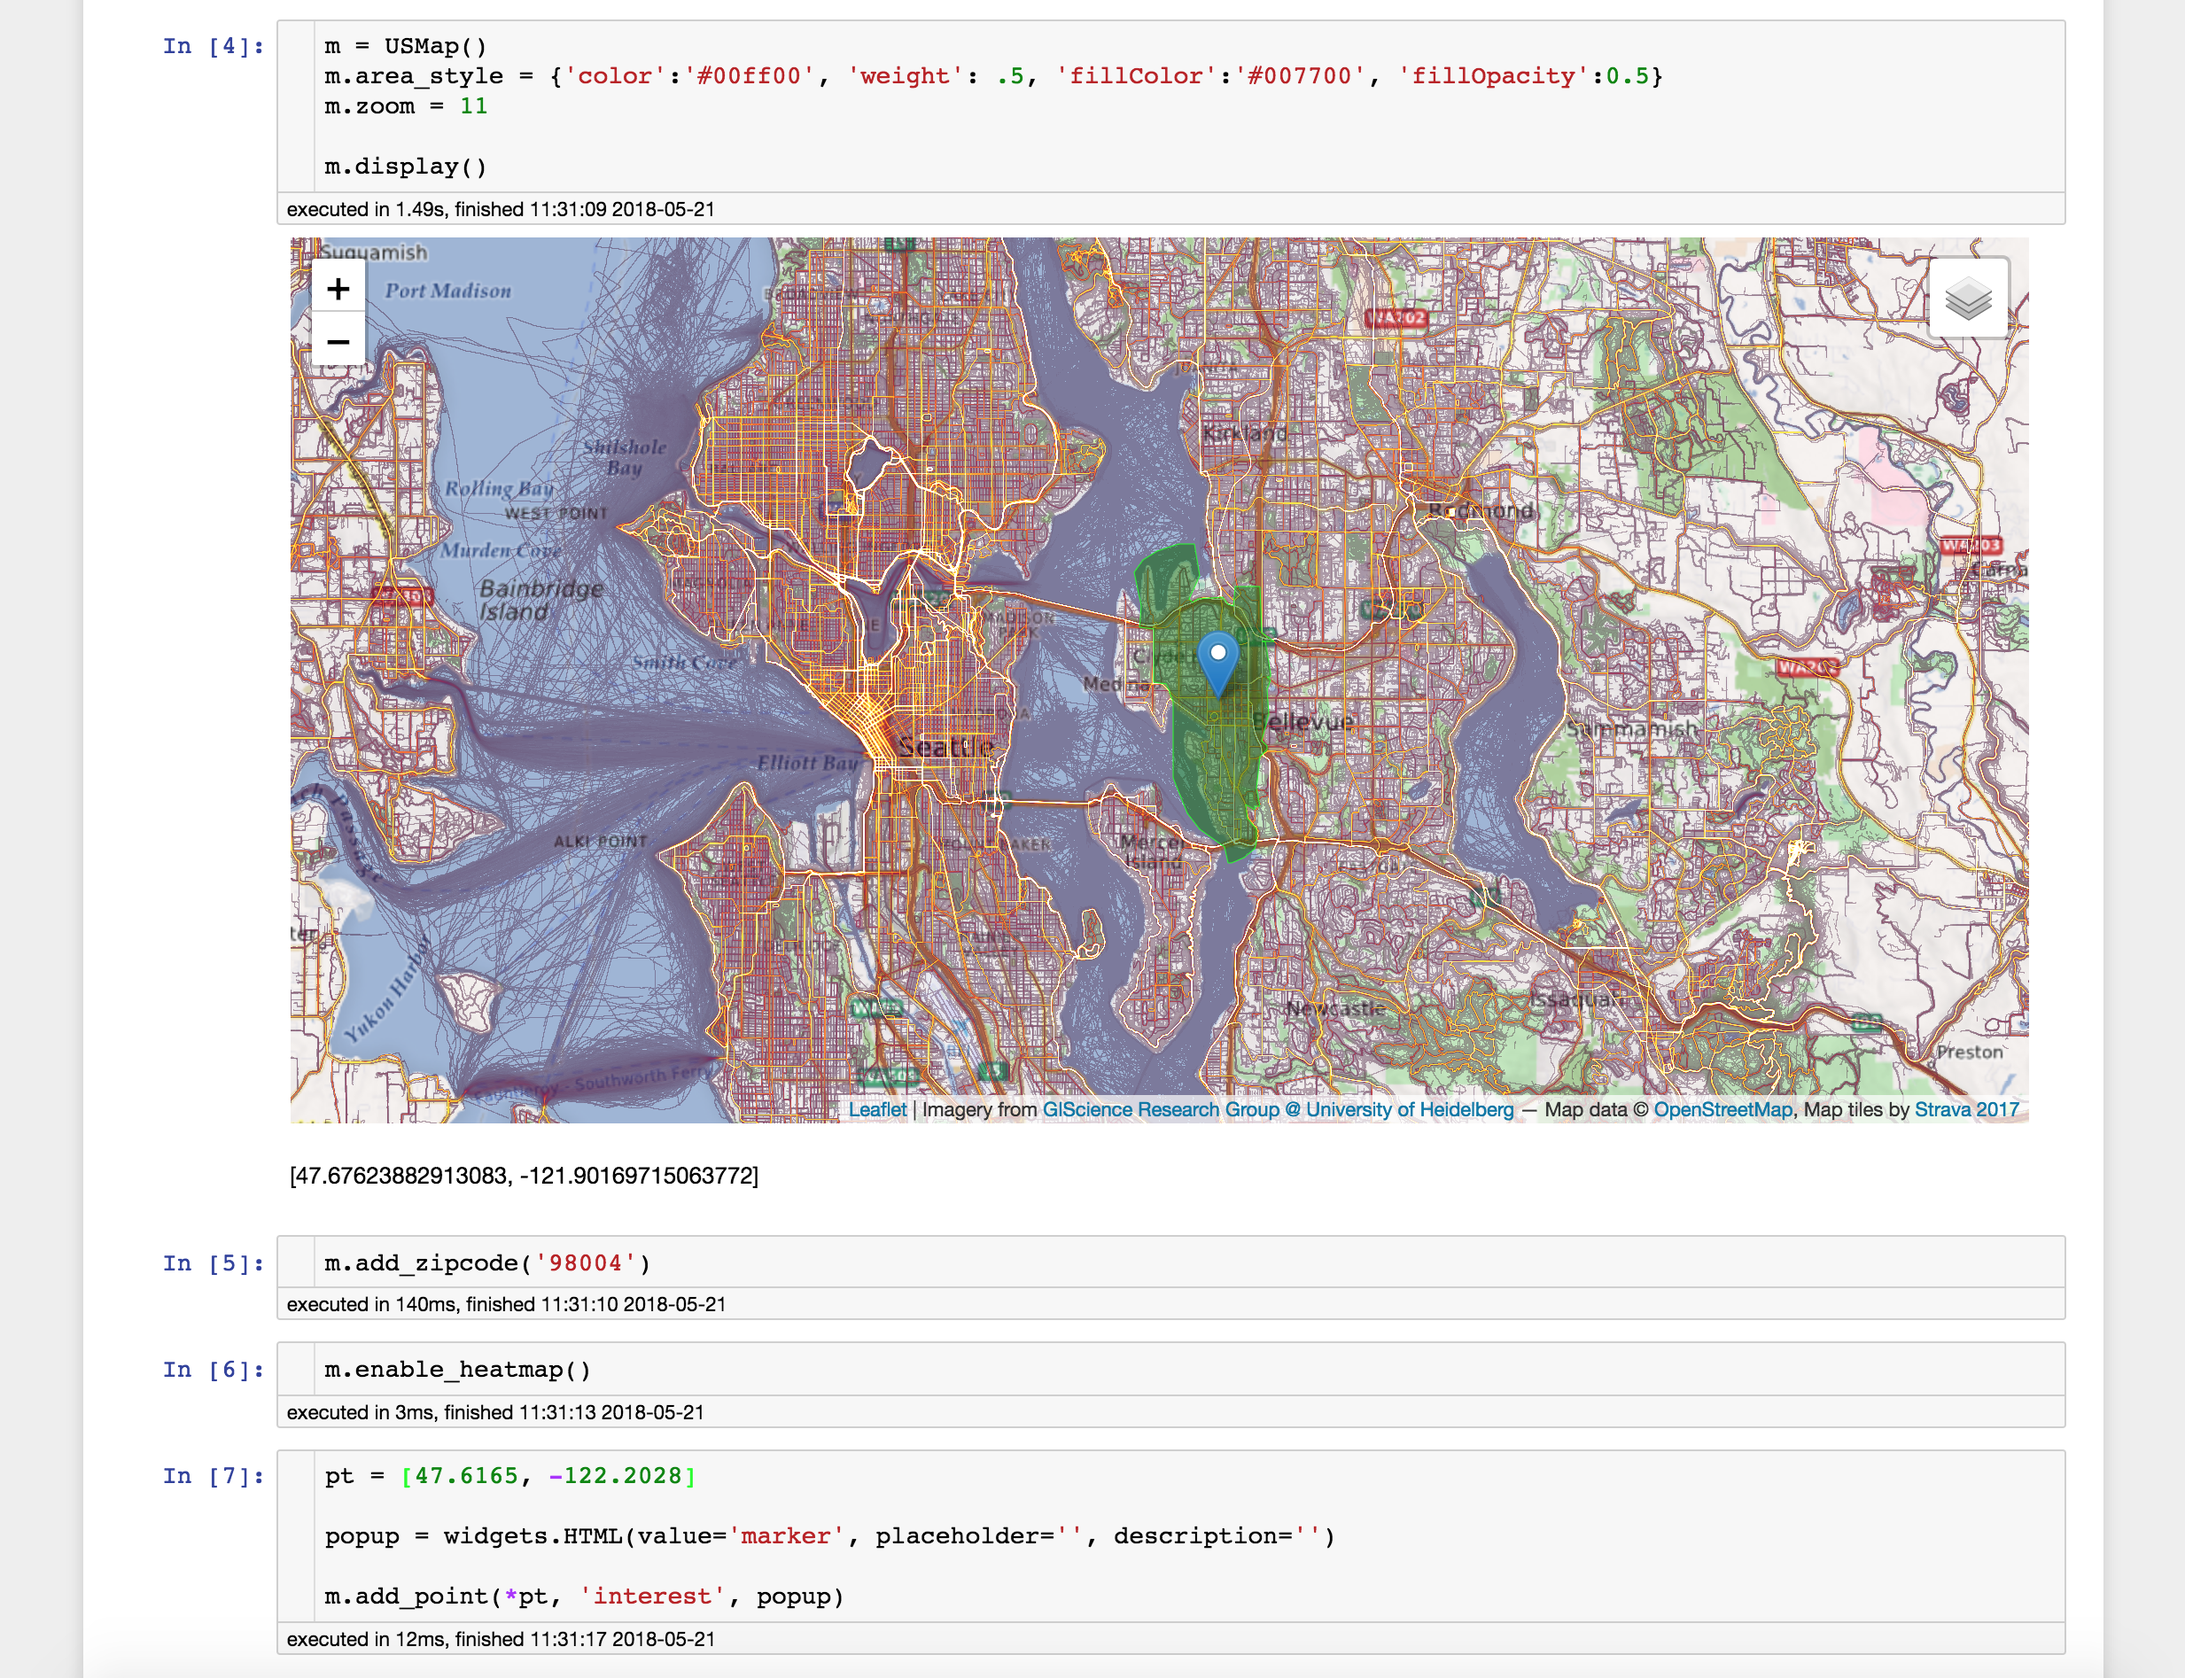
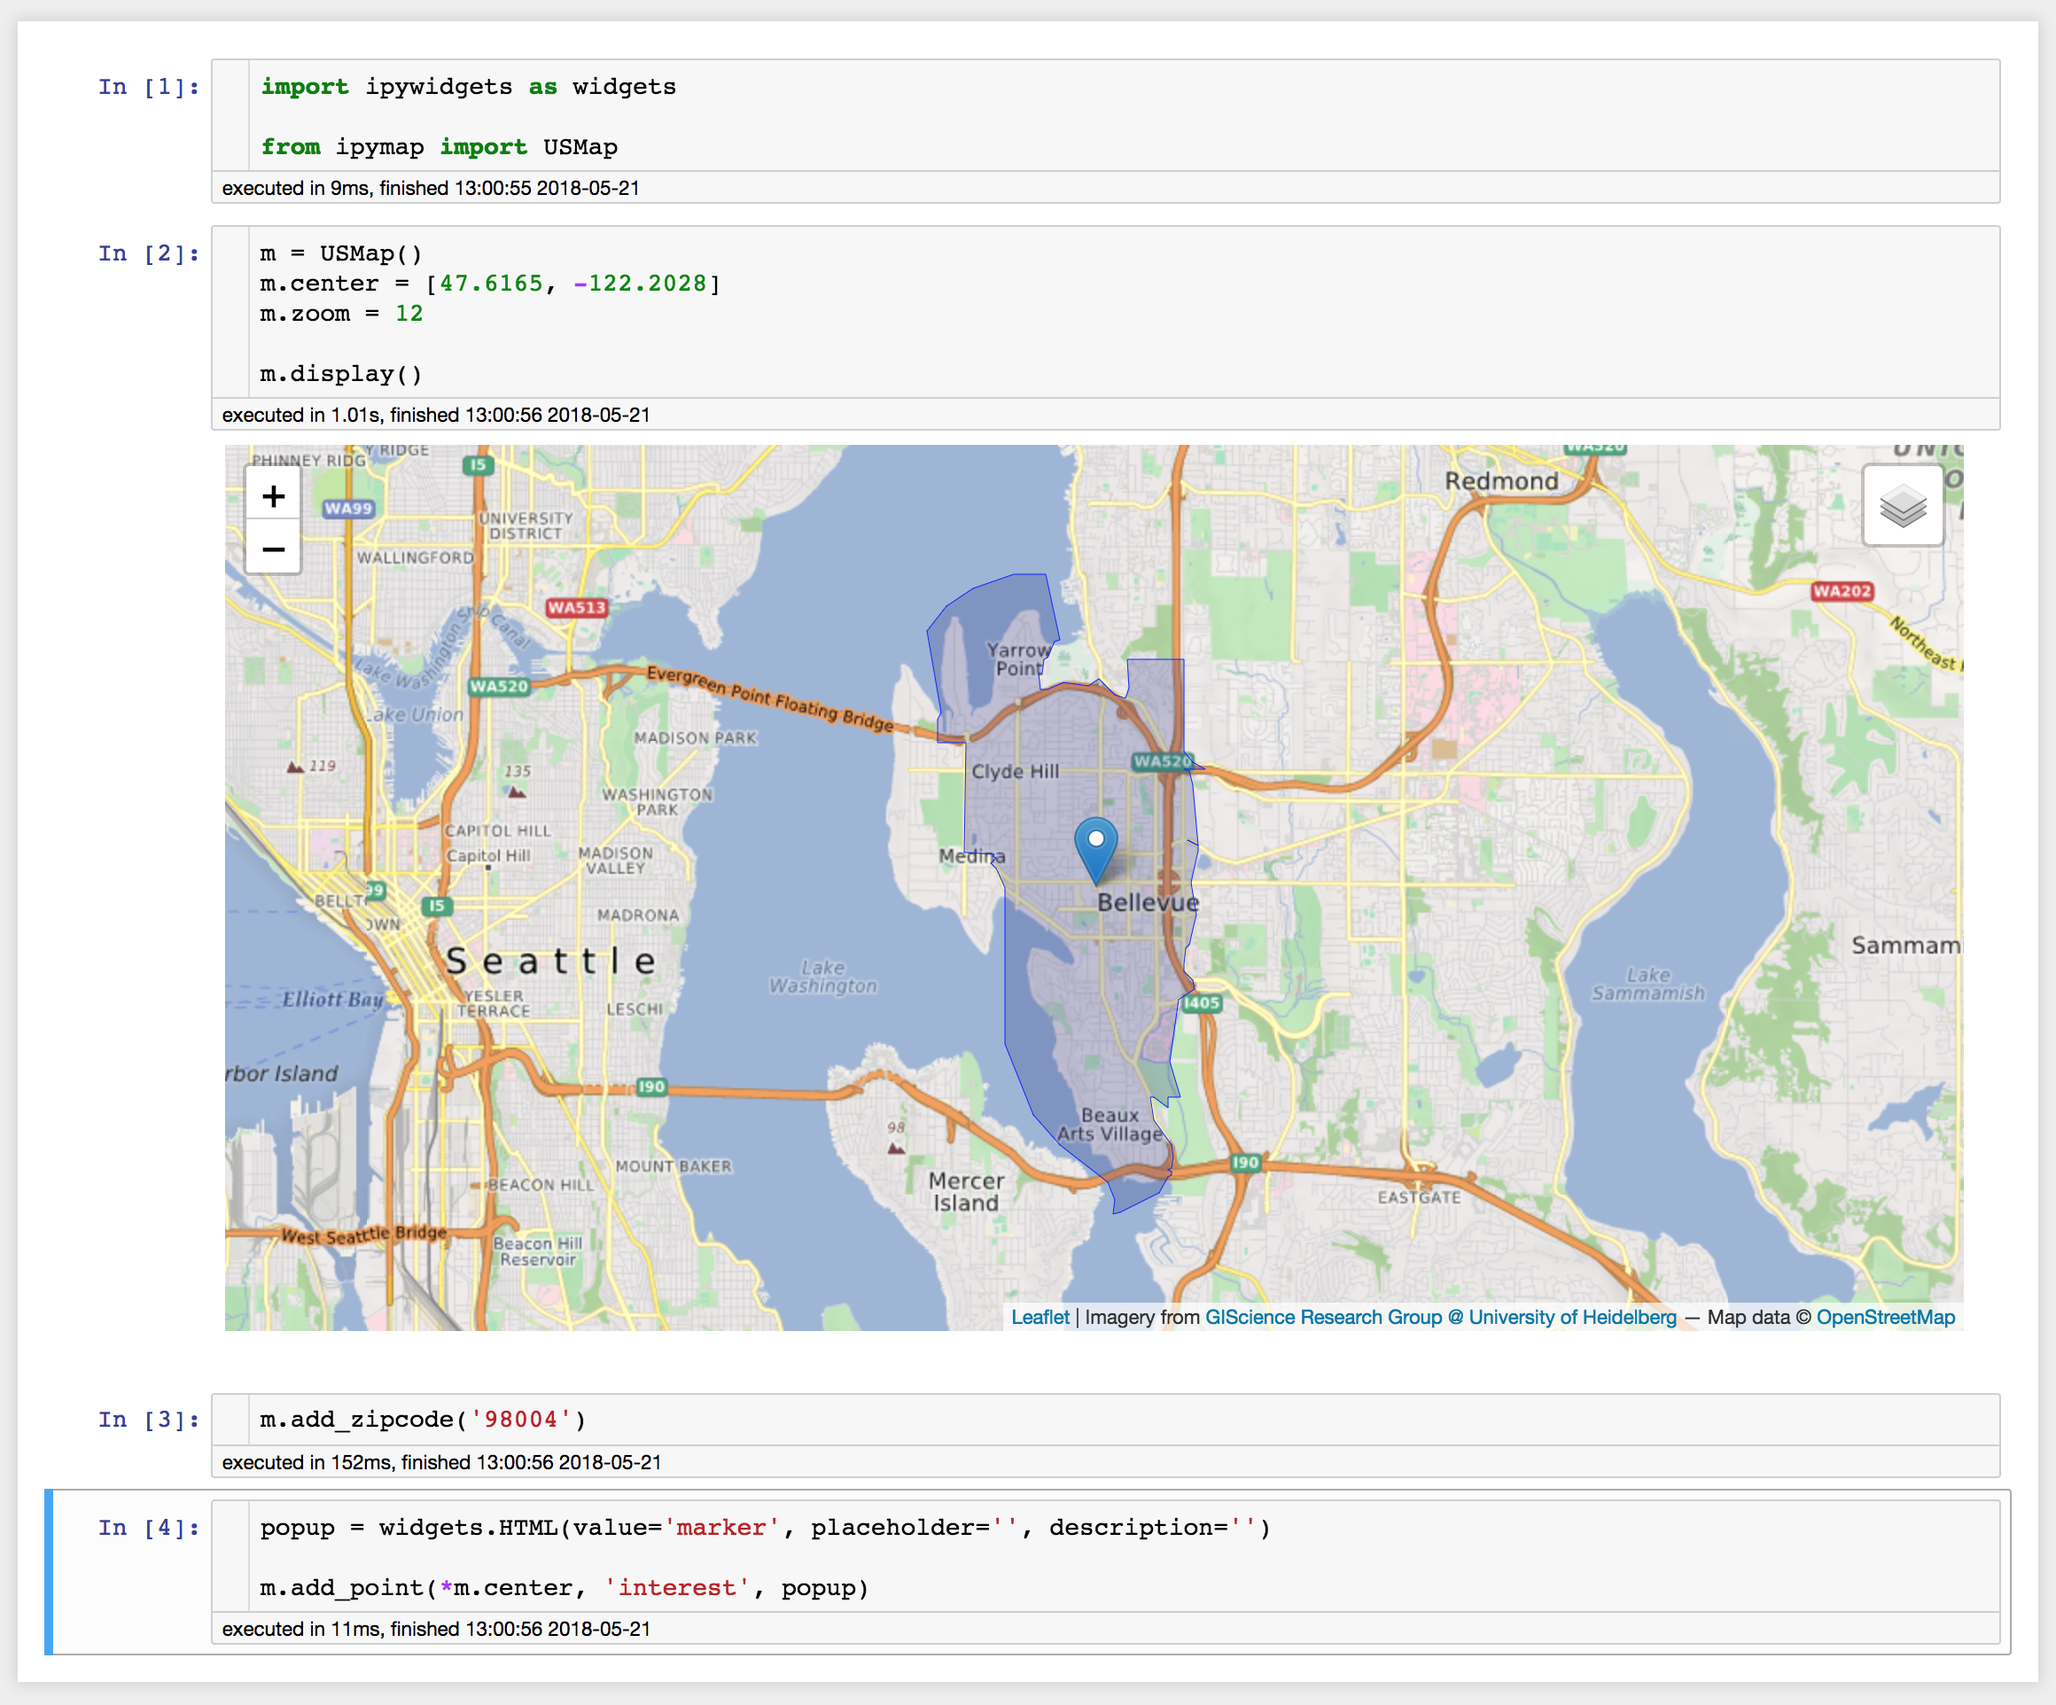
USZIPCodeRepository and USMap

diff --git a/ipymap/map.py b/ipymap/map.py
@@ -1,0 +1,183 @@
+from string import Template
+
+import urllib.request
+import json
+import csv
+
+import ipyleaflet as leaflet
+import ipywidgets as widgets
+
+
+class USZIPCodeRepository:
+    CACHE = {}
+
+    def __init__(self, data_url_prefix = 'https://raw.githubusercontent.com/yyu/GeoJSON-US/master'):
+        self.data_url_prefix = data_url_prefix
+        self.geojson_url_prefix = f'{data_url_prefix}/perZIPgeojson'
+
+        self.refresh_zipcode_latlons(f'{data_url_prefix}/ZIPCodesGazetteer.tsv')
+        self.refresh_available_zipcodes(f'{data_url_prefix}/perZIPgeojson/all_zipcodes.txt')
+
+
+    def refresh_zipcode_latlons(self, url):
+        lines = [ line.decode('UTF8').strip() for line in urllib.request.urlopen(url).readlines() ]
+        tsv = csv.DictReader(lines, delimiter='\t')
+        self.gazetteer = dict((d['GEOID'], {'lat': float(d['INTPTLAT']), 'lon': float(d['INTPTLONG'])}) for d in tsv)
+
+
+    def refresh_available_zipcodes(self, url):
+        lines = [ zipcode.decode('UTF8').strip() for zipcode in urllib.request.urlopen(url).readlines() ]
+        self.zipcode_list = lines[1:] # ignore the first line
+        self.zipcode_set = set(self.zipcode_list)
+
+
+    def make_url(self, zipcode):
+        return f'{self.data_url_prefix}/perZIPgeojson/{zipcode[0]}/{zipcode[1]}/{zipcode[2]}/{zipcode}.json'
+
+
+    def fetch_zipcode(self, zipcode):
+        '''returns a (dict, err) tuple where err could be a string for error message or None'''
+
+        url = self.make_url(zipcode)
+
+        if url in USZIPCodeRepository.CACHE:
+            return (USZIPCodeRepository.CACHE[url], None)
+
+        try:
+            s = urllib.request.urlopen(url).read()
+        except urllib.error.URLError as e:
+            return (None, 'failed to get ' + url, ':', e.reason)
+
+        j = json.loads(s)
+
+        USZIPCodeRepository.CACHE[url] = j
+
+        return (j, None)
+
+
+    def fetch_zipcodes(self, *zipcodes):
+        d = {"type": "FeatureCollection", "features": []}
+
+        available_zipcodes = set(zipcodes) & self.zipcode_set
+
+        for z in available_zipcodes:
+            j, err = self.fetch_zipcode(z)
+
+            if j is not None:
+                d['features'].append(j)
+
+        return d
+
+
+class USMap:
+    def __init__(self):
+        self.us = USZIPCodeRepository()
+
+        self.center = [47.621795, -122.334958]
+        self.zoom = 8
+        self.height = '500px'
+        self.progress_bar_width = '500px'
+        self.area_style = {'color':'#0000ff', 'weight': .5, 'fillColor':'#000077', 'fillOpacity':0.2}
+
+        self.progress_bar = widgets.IntProgress(bar_style='info', layout=widgets.Layout(width=self.progress_bar_width))
+        self.label = widgets.Label()
+        self.progress_label = widgets.Label()
+        self.info_box = widgets.HBox([self.progress_label, self.progress_bar])
+
+        self.basemap = leaflet.basemaps.OpenMapSurfer.Roads
+        self.basemap['name'] = 'basemap'
+        self.heatmap_data = leaflet.basemaps.Strava.All
+        self.heatmap_data['name'] = 'heatmap'
+        self.heatmap = leaflet.basemap_to_tiles(self.heatmap_data)
+        self.layers_control = leaflet.LayersControl()
+        self.map_layout = widgets.Layout(height=self.height)
+
+        self.map = None
+
+
+    def enable_heatmap(self):
+        self.map.add_layer(self.heatmap)
+
+
+    def disable_heatmap(self):
+        self.map.remove_layer(self.heatmap)
+
+
+    def handle_interaction(self, **kwargs):
+        '''mouse interaction handling'''
+        if kwargs.get('type') == 'mousemove':
+            self.label.value = str(kwargs.get('coordinates'))
+
+    def fetch_zipcode(self, zipcode):
+        d, err = self.us.fetch_zipcode(zipcode)
+        if err is not None:
+            print(err)
+        return d
+
+
+    def add_point(self, lat, lng, name='', popup=None):
+        feature = {"type": "Feature", "properties": {}, "geometry": {"type": "Point", "coordinates": [lng, lat]}}
+        self.add_geojson(feature, name, popup)
+
+
+    def add_geojson(self, geojson, name='', popup=None):
+        g = leaflet.GeoJSON(data=geojson, hover_style={'fillColor': '#00aaff'}, name=name)
+
+        if popup is not None:
+            g.popup = popup
+
+        self.map += g
+
+
+    def add_geojsons(self, geojsons, name=''):
+        d = {"type": "FeatureCollection", "features": list(geojsons)}
+
+        self.add_geojson(d, name)
+
+
+    def add_zipcode(self, zipcode):
+        d = self.fetch_zipcode(zipcode)
+        if d is None:
+            print('failed to add ' + zipcode + '.')
+            return
+
+        d['properties']['style'] = self.area_style
+
+        text_template = Template('''<div>ZIP Code
+                                        <ul class='list-group'>
+                                            <li class='list-group-item'>$zipcode</li>
+                                        </ul>
+                                    </div>''')
+        popup_text = text_template.substitute(zipcode=zipcode)
+        popup = widgets.HTML(value=popup_text, placeholder='', description='')
+
+        self.add_geojson(d, name=zipcode, popup=popup)
+
+
+    def add_zipcodes(self, zipcodes):
+        display(self.info_box)
+
+        zipcodes = set(zipcodes)
+        available_zipcodes = list(zipcodes & self.us.zipcode_set)
+        available_zipcodes.sort()
+
+        self.progress_bar.value = self.progress_bar.min
+        self.progress_bar.max = len(available_zipcodes)
+
+        for z in available_zipcodes:
+            self.progress_label.value = z
+            self.add_zipcode(z)
+            self.progress_bar.value += 1
+        self.progress_label.value = '%d/%d loaded' % (len(available_zipcodes), len(zipcodes))
+
+        return available_zipcodes
+
+
+    def display(self):
+        if self.map is None:
+            self.map = leaflet.Map(center=self.center, zoom=self.zoom, basemap=self.basemap, layout=self.map_layout)
+            self.map.on_interaction(self.handle_interaction)
+            self.map.add_control(self.layers_control)
+
+        display(self.map)
+        display(self.label)

diff --git a/setup.py b/setup.py
@@ -6,13 +6,23 @@ with open("README.md", "r") as fh:
 setuptools.setup(
     name="ipymap",
     version="0.0.1",
+
+    install_requires=[
+        'ipywidgets>=7.1.1',
+        'ipyleaflet>=0.8.1',
+    ],
+
     author="Yuan \"Forrest\" Yu",
     author_email="yy@yuyuan.org",
+
     description="mapping tool in jupyter",
     long_description=long_description,
     long_description_content_type="text/markdown",
+
     url="https://github.com/yyu/ipymap",
+
     packages=setuptools.find_packages(),
+
     classifiers=(
         "Programming Language :: Python :: 3",
         "License :: OSI Approved :: MIT License",

diff --git a/ipymap/__init__.py b/ipymap/__init__.py
@@ -1,1 +1,3 @@
 name = 'ipymap'
+
+from .map import *
